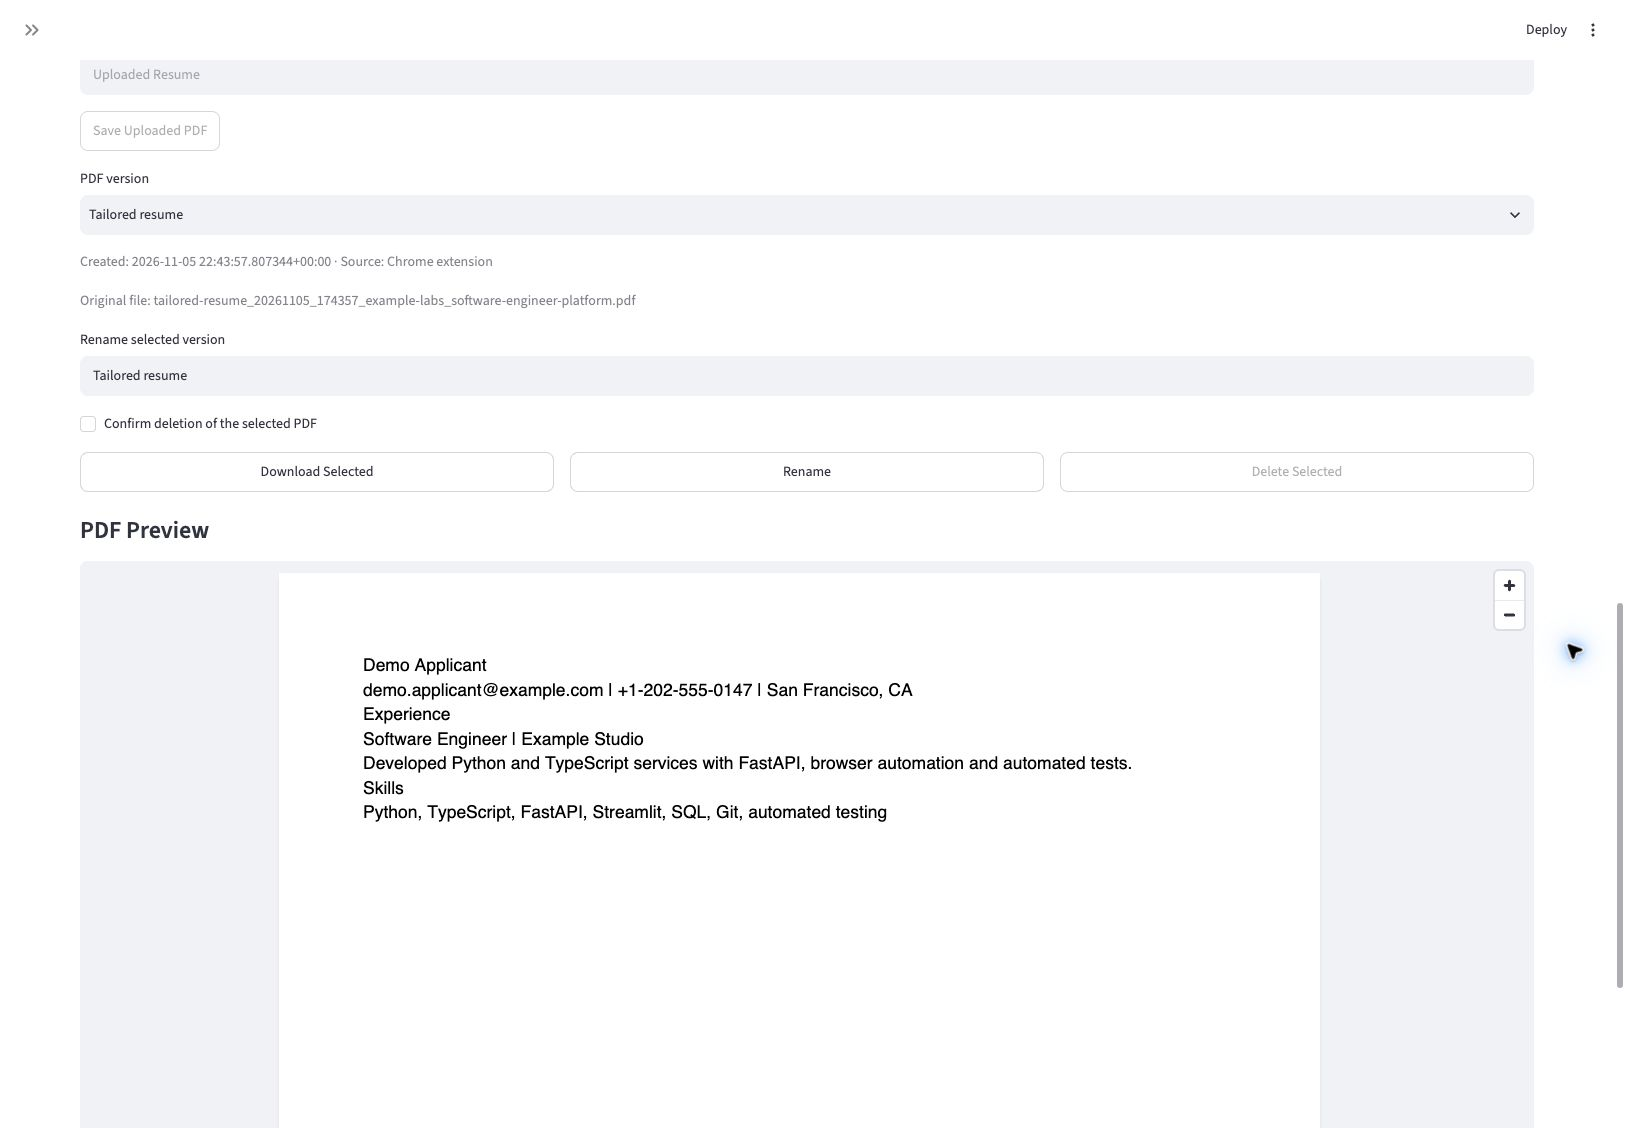
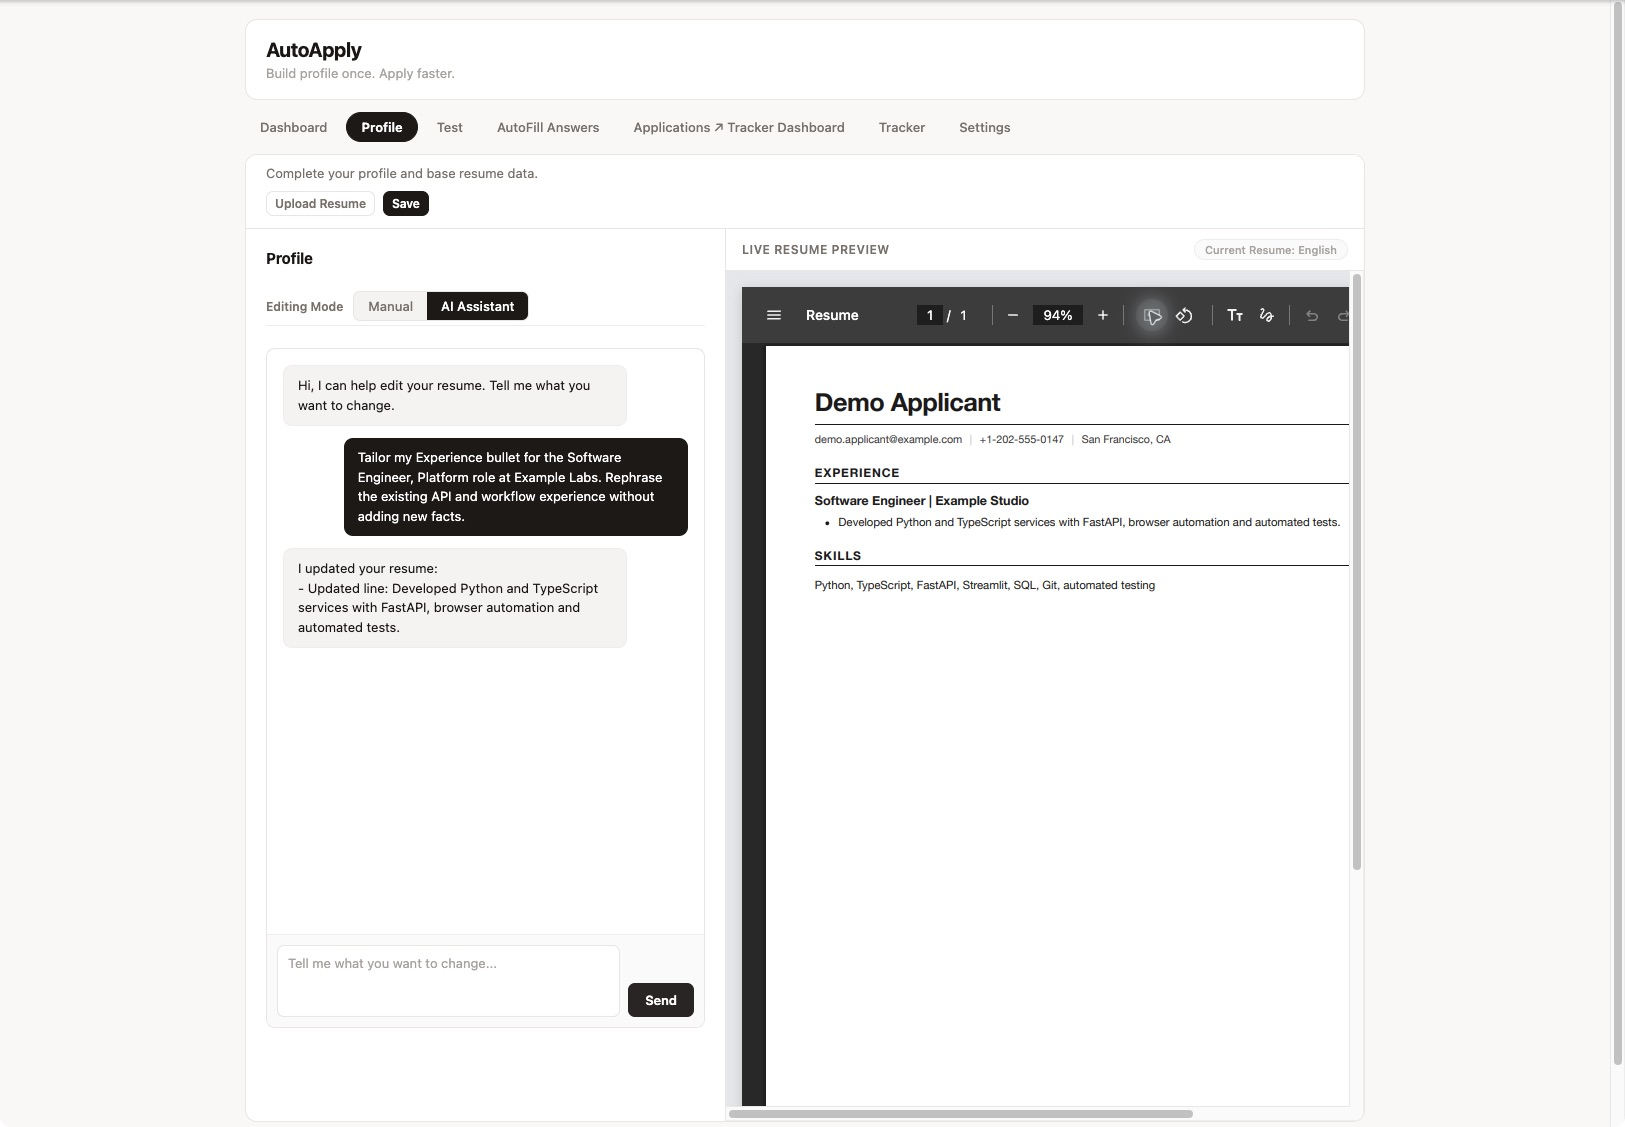
Show extension and agents in demo without fixture score claims

diff --git a/docs/demo.md b/docs/demo.md
@@ -6,15 +6,15 @@ The demo follows one fictional application through the extension and the shared 
 
 | Step | Screenshot | Captured view |
 | --- | --- | --- |
-| 1. Capture | [Job posting](assets/01-job.png) | The visible role and company before **Start Apply**. |
-| 2. Tailor | [Resume](assets/02-resume.png) | The tailored resume or A4 PDF preview for that application. |
+| 1. Capture | [Job posting and popup](assets/01-job.png) | The fictional job page with the extension popup open and **Start Apply** visible. |
+| 2. Tailor | [Console resume preview](assets/02-resume.png) | The Console's A4 preview of the tailored resume. |
 | 3. Autofill | [Filled form](assets/03-autofill.png) | Fields after a real Chrome autofill run, including any unresolved controls. |
 | 4. Track | [Dashboard](assets/04-dashboard.png) | The same job row in the shared Python tracker. |
-| 5. Remind | [Calendar](assets/05-calendar.png) | A reminder attached to the same job. |
+| 5. Act | [Tracker assistant](assets/05-tracker-assistant.png) | A request to change status and add an interview reminder, with the assistant's execution results visible in the Console. |
 
 [Step GIF](assets/demo.gif) uses these five screenshots in order. It is assembled from browser captures; generated artwork is not substituted for the interface. The individual screenshots retain the real controls and visible field values.
 
-## Capture record
+## Demo setup
 
 | Capture detail | Value |
 | --- | --- |
@@ -24,14 +24,11 @@ The demo follows one fictional application through the extension and the shared 
 | Form fixture | `http://127.0.0.1:18888/apply` |
 | Provider | Deterministic local MiniMax-compatible fixture at `http://127.0.0.1:18888/anthropic` |
 | Model label | `deterministic-local-fixture` |
-| Source | `merge-tracker` working tree based on `06fdd5c`; [capture fingerprints](assets/capture-record.json) |
-| Visible form result | Four text controls filled and a new PDF selected; popup reports `Filled=5/5` |
-| Application/site scope | 1 fictional application on 1 local fictional site |
-| Persisted autofill coverage | 5 filled / 5 detected (100%) |
-| Sample timestamp | `2026-11-05T22:44:27.088Z` |
+| Visible form result | Text controls filled and the generated PDF selected |
+| Application/site scope | A fictional application on a local fixture site |
 
 Start Apply uses a copy of the current saved Profile resume with the configured provider. This capture uses fixed responses from the local MiniMax-compatible fixture, with no paid provider request. It demonstrates browser/API/storage integration and PDF generation rather than live-model tailoring quality or a real-portal benchmark. The job, form and provider URLs belong to the temporary local demo fixture, not public job portals.
 
-The persisted `autofill_stats` matched the visible filled form and popup count: four text controls and one PDF upload control, **5/5** in total. This is coverage, not an assessment of semantic correctness. See [Evaluation](evaluation.md).
+The form run checks that visible filling and PDF selection are recorded for the same tracker application. Per-application `autofill_stats` supports later coverage measurement; this fictional form is not a real-portal benchmark. See [Evaluation](evaluation.md).
 
 Final application submission is performed by the user on the portal. The popup's **I have submitted** control records that explicit confirmation; autofill and tracker agent requests must not imply that a form was submitted automatically.

diff --git a/docs/evaluation.md b/docs/evaluation.md
@@ -1,6 +1,6 @@
 # Evaluation
 
-AutoApply reports implemented operations, automated tests and measured form coverage separately. A screenshot or fixed model response demonstrates a workflow; it does not establish LLM quality or performance across job portals.
+AutoApply reports implemented operations, automated tests and workflow integration separately. A screenshot or fixed model response demonstrates a workflow; it does not establish LLM quality or performance across job portals.
 
 ## Implementation evidence
 
@@ -26,32 +26,13 @@ A detected field is a distinct control in the form scan. The base and keyword pa
 
 A measurement report should include the raw `filled`, `detected`, `recorded_at` and job URL for every sample, the sample count, distinct sites, date, Chrome version and extension revision. Local demonstration fixtures must be identified separately from real portal forms. The [demo guide](demo.md) describes the media and its configuration.
 
-## Measured local fixture
+## Integration workflow validation
 
-| Measure | Recorded value |
-| --- | --- |
-| Date | 2026-11-05 |
-| Browser | Chrome 156.0.8078.80 |
-| Job / form | `http://127.0.0.1:18888/job` / `http://127.0.0.1:18888/apply` |
-| Provider / model | Local MiniMax-compatible fixed responses / `deterministic-local-fixture` |
-| Source | Working tree based on `06fdd5c`; [capture fingerprints](assets/capture-record.json) |
-| Samples with `detected > 0` | 1 fictional application |
-| Sites | 1 local fictional site; 0 real portals |
-| Filled / detected | 5 / 5 |
-| Aggregate coverage | 100% (`5 / 5`) |
-| Persisted sample timestamp | `2026-11-05T22:44:27.088Z` |
+The Chrome walkthrough uses a fictional local job and form with deterministic local provider responses. It exercises job capture, application-specific PDF generation, form filling, the shared dashboard and Tracker assistant actions. The provider fixture makes no paid model requests; the workflow does not evaluate model quality.
 
-The persisted `autofill_stats` sample is:
+The form run verified that text controls were filled, the generated PDF was selected and the resulting autofill statistics reached the same application in the tracker. Repeating Start Apply preserved that application's existing status and applied date. This is integration validation, not a coverage benchmark.
 
-```json
-{
-  "filled": 5,
-  "detected": 5,
-  "recorded_at": "2026-11-05T22:44:27.088Z"
-}
-```
-
-This run used Chrome, a fictional local form and a deterministic local provider fixture; no paid provider request was made. Four text controls were filled and a new PDF was selected in the file control. The native popup and persisted sample both reported 5/5. It demonstrates field filling and coverage recording through the extension and local API; it is not evidence of general portal coverage, semantic answer correctness or model quality. The sample counts once, not once per screenshot or workflow step.
+Coverage has not been measured on real recruiting websites. The [real-portal benchmark](https://github.com/YuexinJ778/AutoApply/issues/3) tracks that work. The [demo guide](demo.md) describes the fictional setup and the five visible workflow steps.
 
 ## Broader portal measurements
 

diff --git a/docs/release-notes-v1.0.0.md b/docs/release-notes-v1.0.0.md
@@ -20,7 +20,7 @@ Provider keys, Profile, main resumes and autofill knowledge remain in the extens
 
 The two registries expose **19 tools**. The automated suites contain **367 Python tests** and **133 extension tests** (**500 total**); the [CI workflow](../.github/workflows/ci.yml) also checks lint, JavaScript syntax and packaging.
 
-The [five-step demo](demo.md) uses fictional application data. Its capture record identifies the browser, fixture and provider configuration; fixed model responses demonstrate integration rather than NLP quality. [Evaluation](evaluation.md) defines coverage as `Σfilled / Σdetected`, using only samples with `detected > 0`. The measured fictional local form recorded **5 filled / 5 detected fields**, across **1 application and 1 local site** on **2026-11-05** in Chrome **156.0.8078.80**. This is fixture coverage, not a real-portal benchmark or correctness score. No unmeasured speedup is claimed.
+The [five-step demo](demo.md) shows the popup, Console resume preview, filled form, shared dashboard and Tracker assistant. It uses fictional data and fixed local provider responses to validate integration rather than model quality. [Evaluation](evaluation.md) defines per-application coverage as `Σfilled / Σdetected`, using only the latest samples with `detected > 0`. Coverage on real recruiting websites has not been measured; the [benchmark issue](https://github.com/YuexinJ778/AutoApply/issues/3) tracks that work. No unmeasured correctness or speedup claim is made.
 
 Console supports English/Chinese resume editing and preview. Start Apply PDFs currently support ASCII text only; use Console PDF export for Chinese.
 
